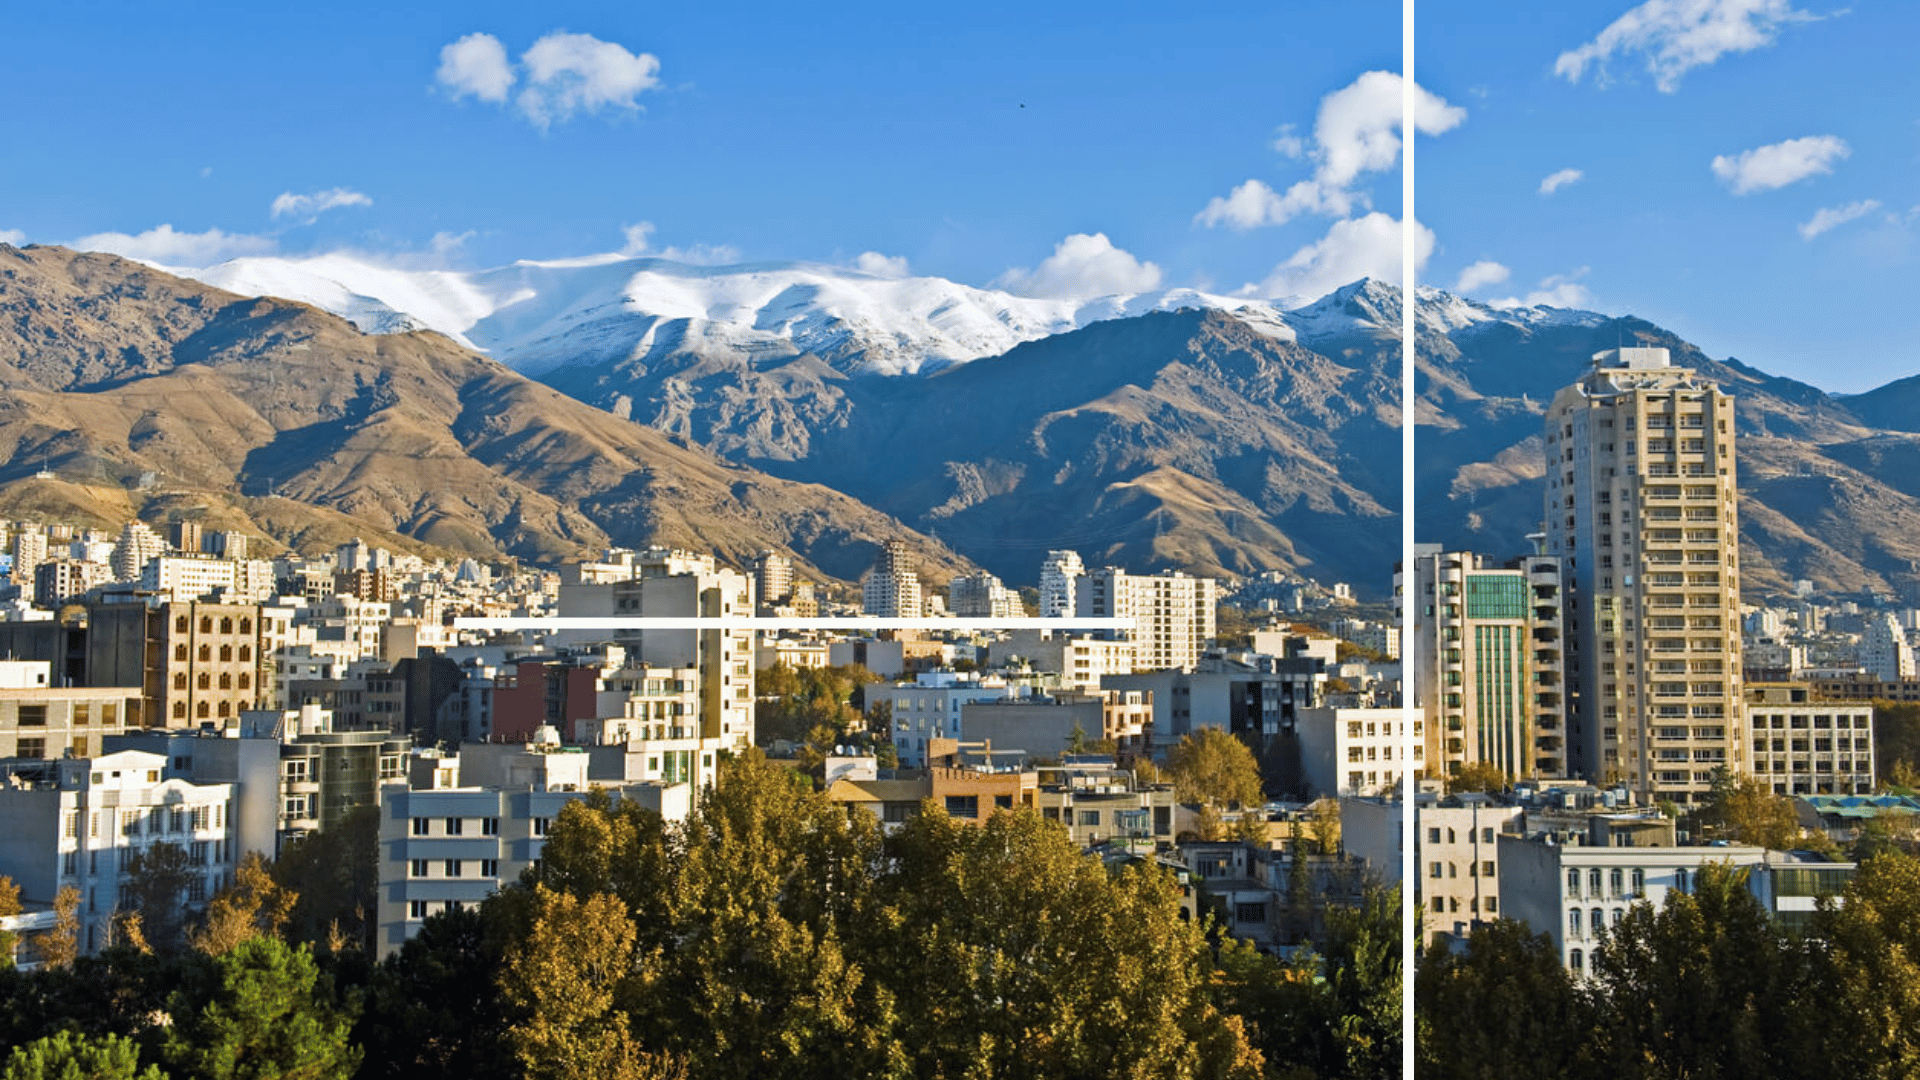
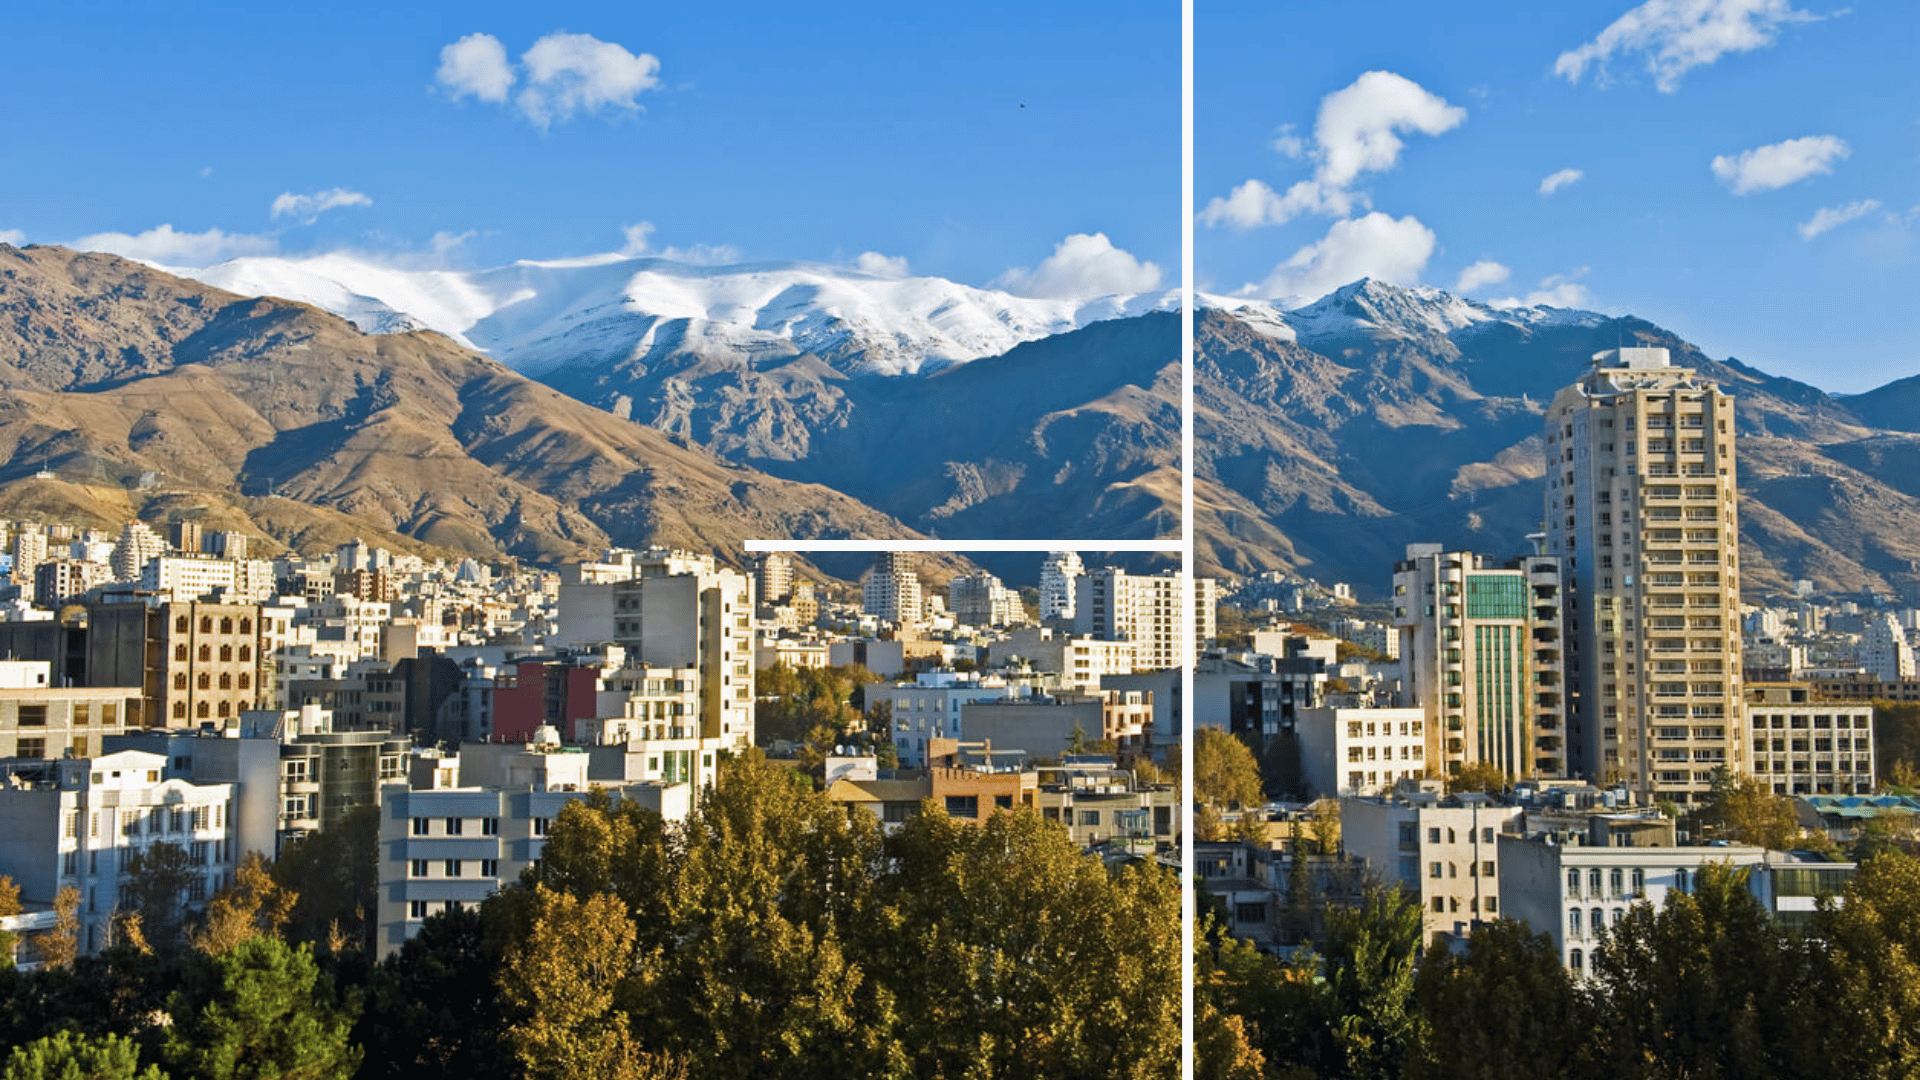
azadì ok

diff --git a/src/components/Azadì.jsx b/src/components/Azadì.jsx
@@ -1,11 +1,34 @@
 import { useState } from "react";
 import "../assets/css/components.css";
 import "bootstrap/dist/css/bootstrap.min.css";
+import AzadìBackgroundDesktop from "../assets/img/azadì-background-desktop.png"
+import AzadìImage from "../assets/img/azadì-image.png"
 
 function Azadì() {
   return(
     <>
-      <section className="azadi">Azadì</section>
+      <img
+        src={AzadìBackgroundDesktop}
+        className="img-fluid home-background-image"
+        alt="Paesaggio Montagna"
+      />
+      <div className="container-fluid d-flex azadì">
+        <div className="row d-flex align-items-center justify-content-center">
+          <div className="col-lg-6 col-12 d-flex justify-content-center align-items-center">
+            <img
+              src={AzadìImage}
+              alt="Home"
+              className="img-fluid rounded-circle home-image"
+            />
+          </div>
+          <div className="col-lg-6 col-12 d-flex flex-column justify-content-center align-items-center bg-white p-4 home-text">
+            <p className="home-title">Azadi!</p>
+            <p className="home-description">
+            Descrizione breve libro Descrizione breve libro Descrizione breve libro Descrizione breve libro Descrizione breve libro Descrizione breve libro Descrizione breve libro Descrizione breve libro Descrizione breve libro Descrizione breve libro Descrizione breve libro Descrizione breve libro Descrizione breve libro Descrizione breve libro 
+            </p>
+          </div>
+        </div>
+      </div>
     </>
   )
 }

diff --git a/src/assets/css/components.css b/src/assets/css/components.css
@@ -17,7 +17,8 @@
   object-fit: cover;
 }
 
-.home {
+.home, 
+.azadì {
   position: relative;
   display: flex;
   justify-content: center;
@@ -48,12 +49,6 @@
   font-weight: 400;
 }
 
-.azadi {
-  background-image: url(../img/azadì-background-desktop.png);
-  background-size: cover;
-  background-repeat: no-repeat;
-}
-
 @media (max-width: 992px) {
 
   .home-background-image {
@@ -82,5 +77,10 @@
   .home-description {
     font-size: 15px;
     font-weight: 400;
+  }
+
+  .azadì {
+    background-image: url(../img/background-mobile-2.png);
+    background-position: center;
   }
 }
